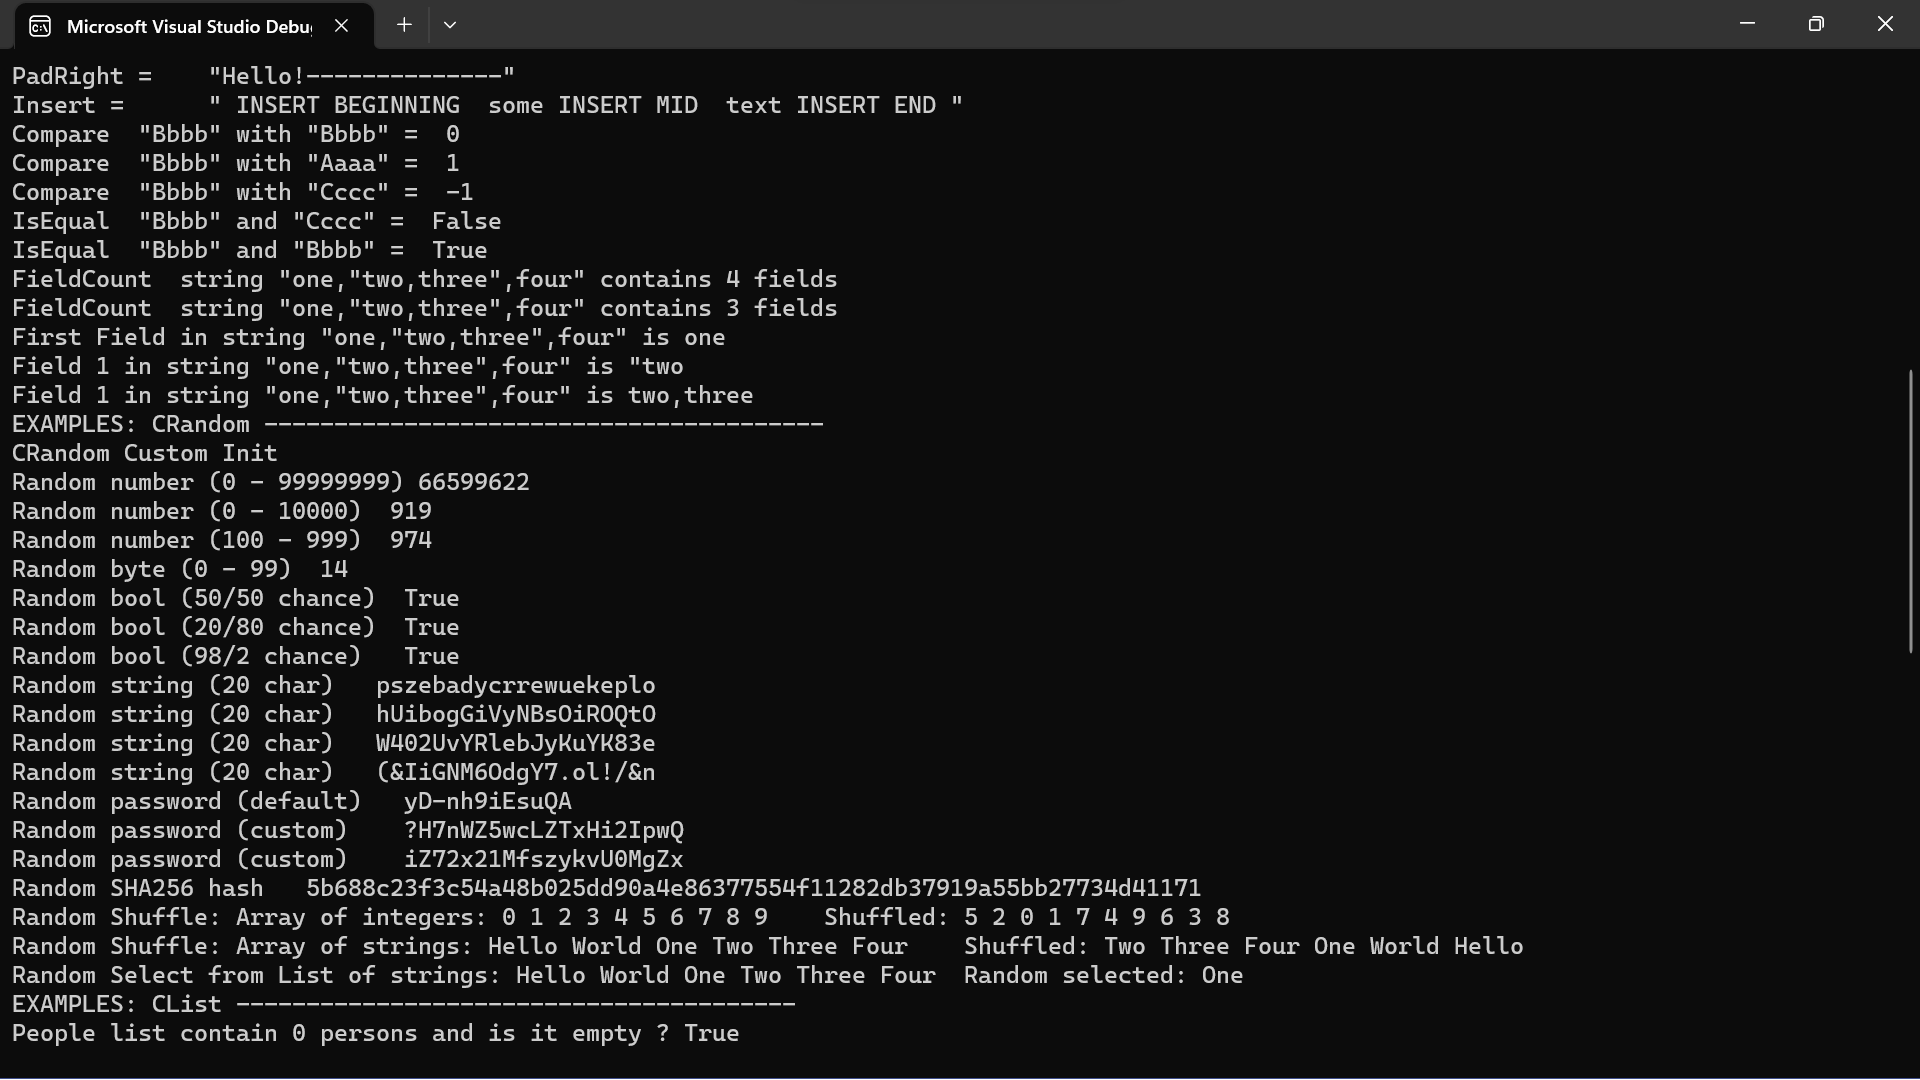
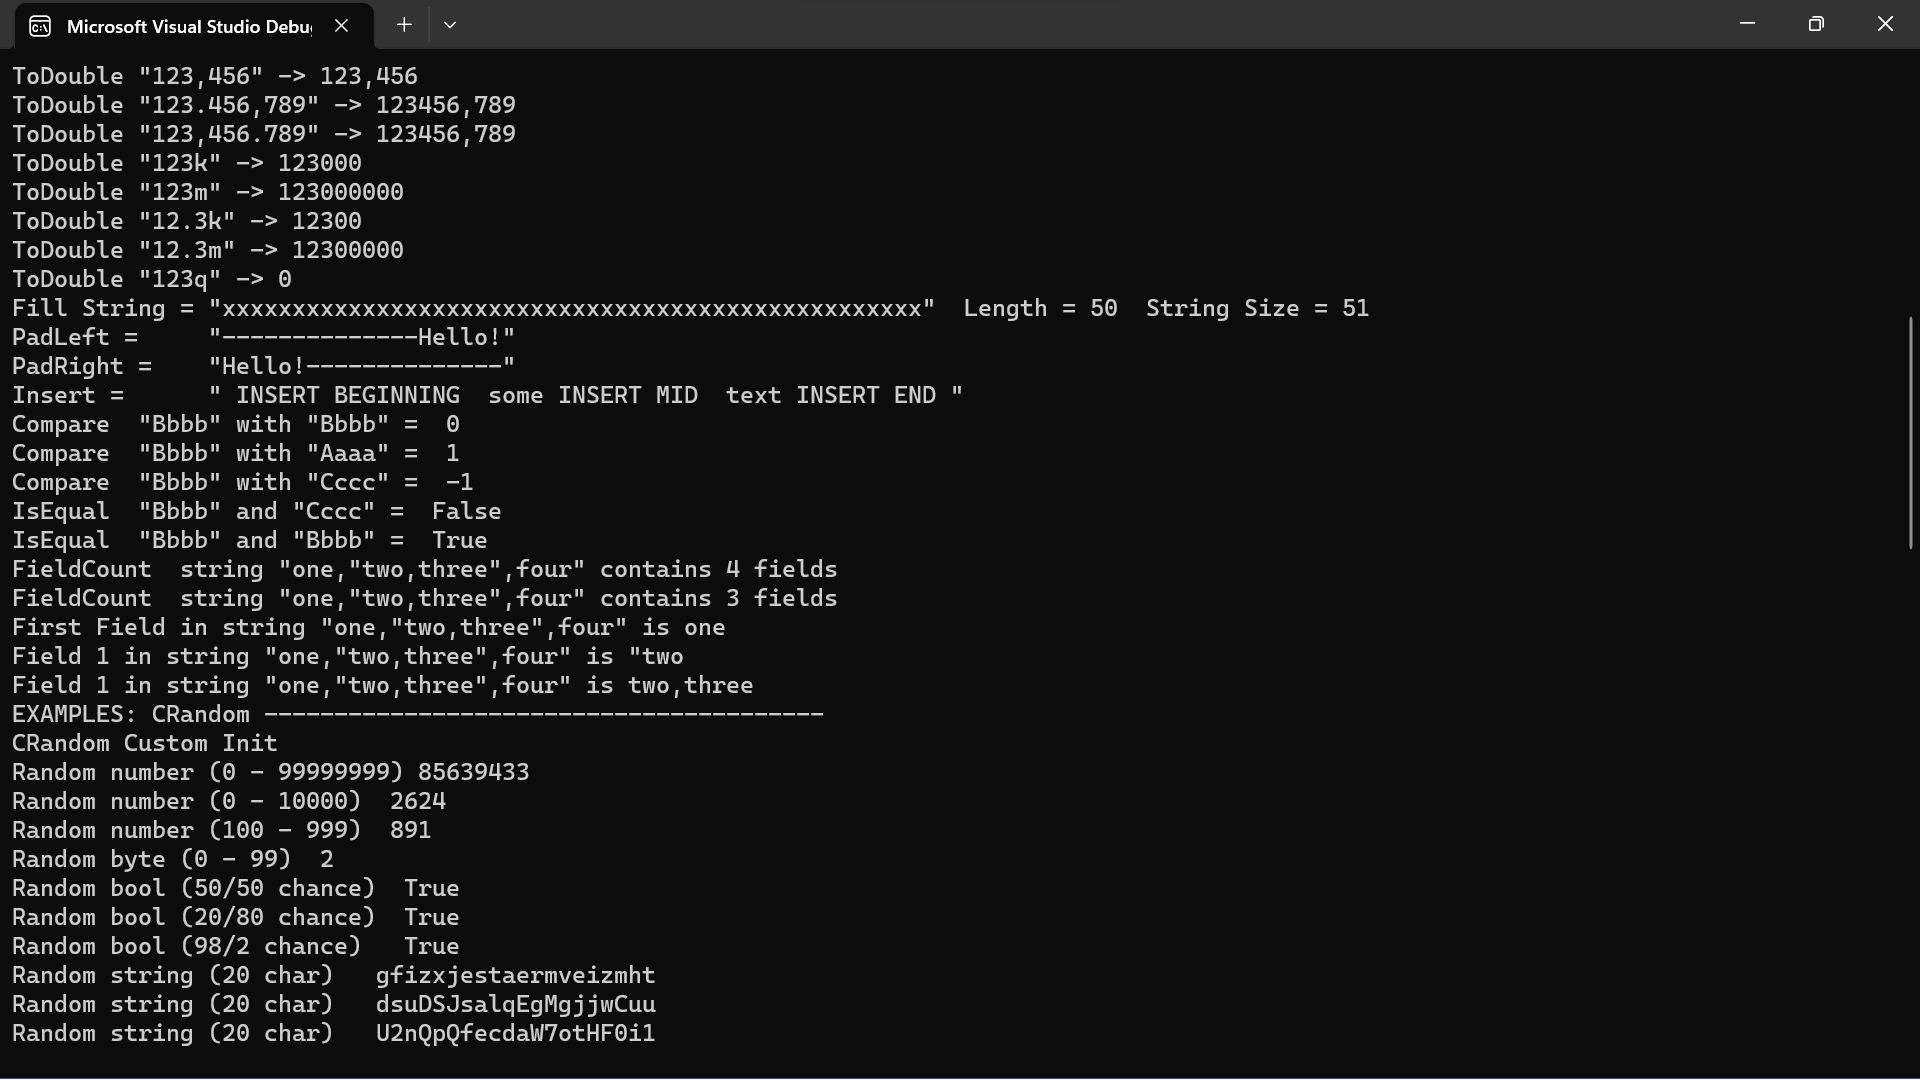
added a few mor cstr.toint and todouble examples, inkluding error

Changed region(s): [[0.0, 0.0611, 0.7812, 0.9778], [0.5, 0.275, 0.7188, 0.3056]]

diff --git a/Syslib.Core.Application/CStr_Application.cs b/Syslib.Core.Application/CStr_Application.cs
@@ -216,6 +216,20 @@ namespace Syslib.Core.Application
 			str.Str("123,456.789");
 			Console.WriteLine($"ToInteger \"{str}\" -> {str.ToInt32()}");
 
+			str.Str("123k");
+			Console.WriteLine($"ToInteger \"{str}\" -> {str.ToInt32()}");
+
+			str.Str("123m");
+			Console.WriteLine($"ToInteger \"{str}\" -> {str.ToInt32()}");
+
+			str.Str("12.3k");
+			Console.WriteLine($"ToInteger \"{str}\" -> {str.ToInt32()}");
+
+			str.Str("12.3m");
+			Console.WriteLine($"ToInteger \"{str}\" -> {str.ToInt32()}");
+
+			str.Str("123q");
+			Console.WriteLine($"ToInteger \"{str}\" -> {str.ToInt32()}");
 		}
 
 		void ToDouble()
@@ -231,6 +245,21 @@ namespace Syslib.Core.Application
 			Console.WriteLine($"ToDouble \"{str}\" -> {str.ToDouble()}");
 
 			str.Str("123,456.789");
+			Console.WriteLine($"ToDouble \"{str}\" -> {str.ToDouble()}");
+
+			str.Str("123k");
+			Console.WriteLine($"ToDouble \"{str}\" -> {str.ToDouble()}");
+
+			str.Str("123m");
+			Console.WriteLine($"ToDouble \"{str}\" -> {str.ToDouble()}");
+
+			str.Str("12.3k");
+			Console.WriteLine($"ToDouble \"{str}\" -> {str.ToDouble()}");
+
+			str.Str("12.3m");
+			Console.WriteLine($"ToDouble \"{str}\" -> {str.ToDouble()}");
+
+			str.Str("123q");
 			Console.WriteLine($"ToDouble \"{str}\" -> {str.ToDouble()}");
 
 		}

diff --git a/Syslib.Core.Application/BugCheck_Application.cs b/Syslib.Core.Application/BugCheck_Application.cs
@@ -57,7 +57,7 @@ namespace Syslib.Core.Application
 		void LogToMemory()
 		{
 			int i;
-			for (i = 0; i < 10; i++)  BugCheck.MemLogger(this, "Log message sent from bugcheck example");
+			for (i = 0; i < 10; i++)  BugCheck.MemLogger(this, $"Log message {i} sent from bugcheck example");
 			Console.WriteLine($"Bugcheck silently logged {i} messages to memory");
 		}
 
